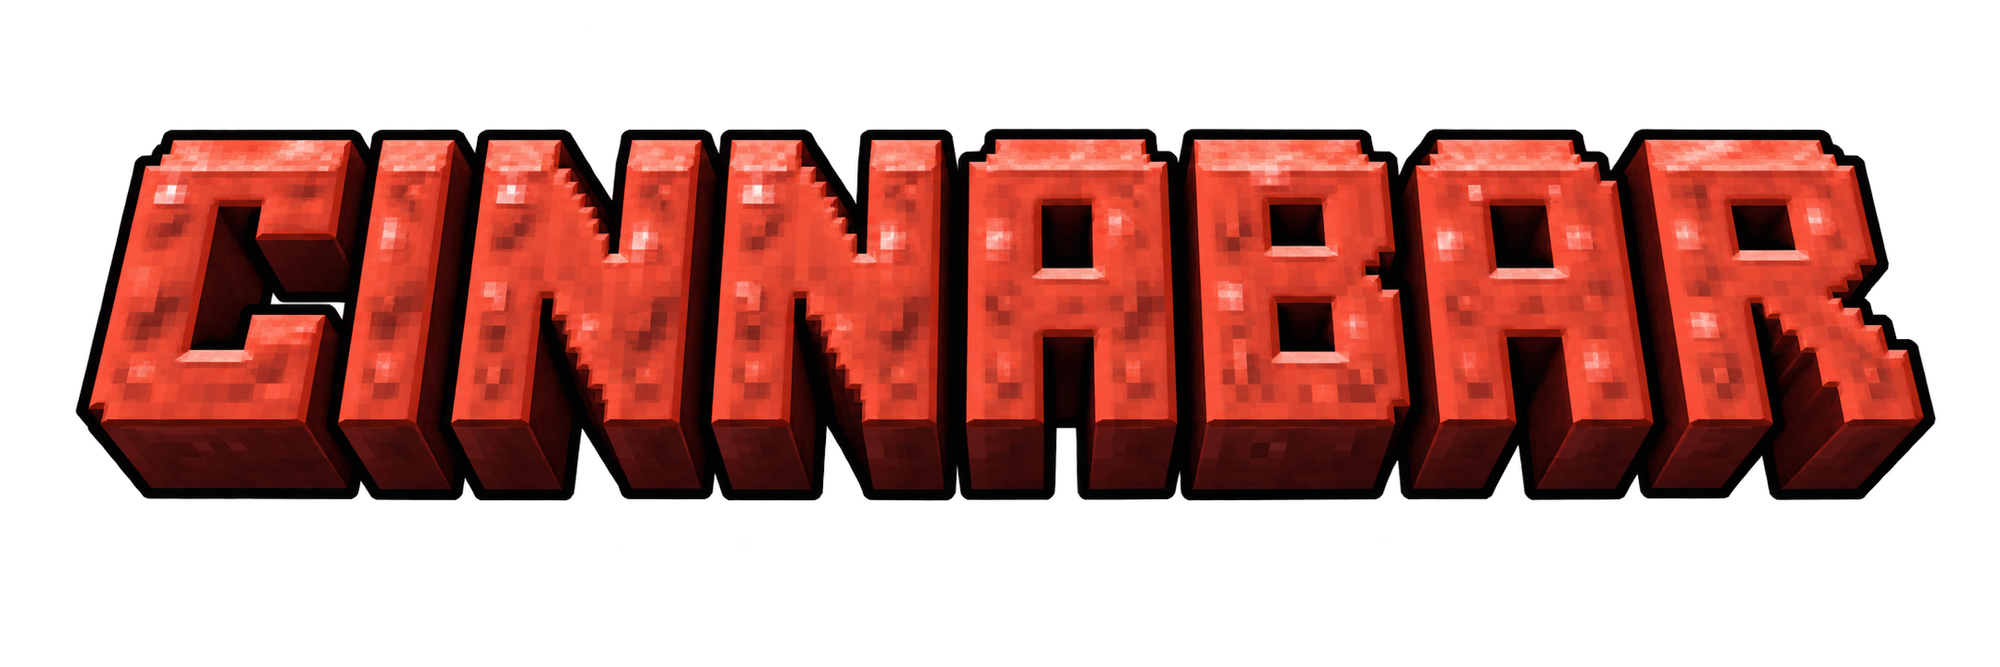
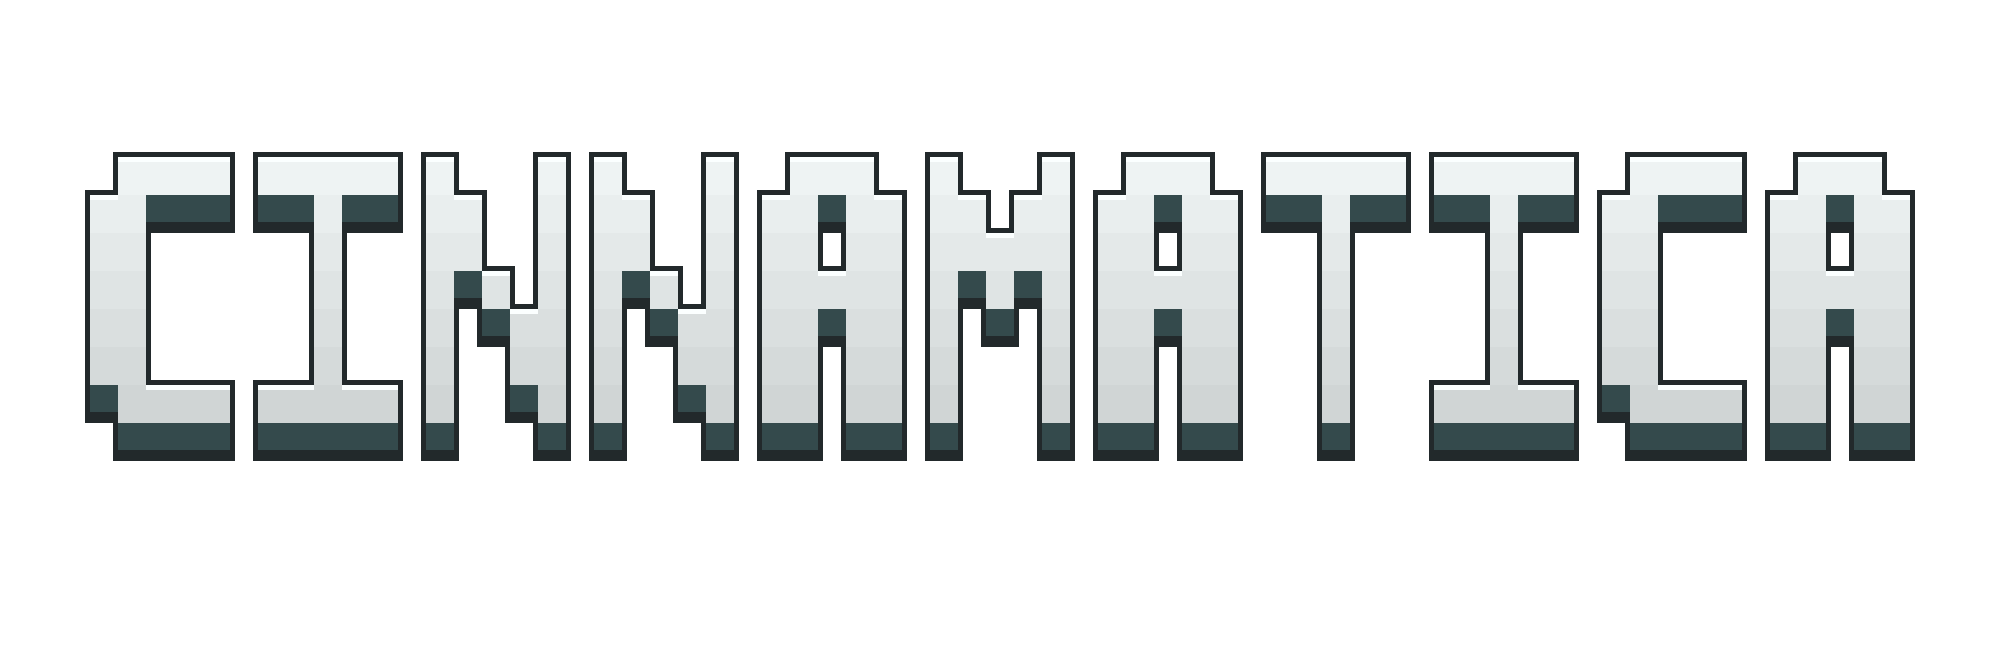
Cinnamatica 0.3.14: rebrand the launcher, mod, and distributions [skip ci]
Windows build 10ee738.

diff --git a/crates/launcher/src/menu/settings_options/bindings.rs b/crates/launcher/src/menu/settings_options/bindings.rs
@@ -113,45 +113,45 @@ bindings! {
     PlayerList => "key.playerList", Some(Action::PlayerList), Some(DeviceRow::Action(21)), None,
         None, false, Some("Player List");
     SchematicMenu => "key.schematic-menu", Some(Action::SchematicMenu), Some(DeviceRow::Action(22)), None,
-        None, false, Some("Schematica Menu");
+        None, false, Some("Cinnamatica Menu");
     SchematicConfig => "key.schematic-config", Some(Action::SchematicConfig), Some(DeviceRow::Action(23)), None,
-        None, false, Some("Schematica Settings");
+        None, false, Some("Cinnamatica Settings");
     SchematicPlacement => "key.schematic-placement", Some(Action::SchematicPlacement), Some(DeviceRow::Action(24)), None,
-        None, false, Some("Schematica Placement");
+        None, false, Some("Cinnamatica Placement");
     SchematicVerifier => "key.schematic-verifier", Some(Action::SchematicVerifier), Some(DeviceRow::Action(25)), None,
-        None, false, Some("Schematica Verifier");
+        None, false, Some("Cinnamatica Verifier");
     SchematicMaterials => "key.schematic-materials", Some(Action::SchematicMaterials), Some(DeviceRow::Action(26)), None,
-        None, false, Some("Schematica Materials");
+        None, false, Some("Cinnamatica Materials");
     SchematicRender => "key.schematic-render", Some(Action::SchematicRender), Some(DeviceRow::Action(27)), None,
-        None, false, Some("Schematica Rendering");
+        None, false, Some("Cinnamatica Rendering");
     SchematicGhosts => "key.schematic-ghosts", Some(Action::SchematicGhosts), Some(DeviceRow::Action(28)), None,
-        None, false, Some("Schematica Ghost Blocks");
+        None, false, Some("Cinnamatica Ghost Blocks");
     SchematicNextMode => "key.schematic-next-mode", Some(Action::SchematicNextMode), Some(DeviceRow::Action(29)), None,
-        None, false, Some("Schematica Next Layer Mode");
+        None, false, Some("Cinnamatica Next Layer Mode");
     SchematicPreviousMode => "key.schematic-previous-mode", Some(Action::SchematicPreviousMode), Some(DeviceRow::Action(30)), None,
-        None, false, Some("Schematica Previous Layer Mode");
+        None, false, Some("Cinnamatica Previous Layer Mode");
     SchematicPlacementConfig => "key.schematic-placement-config", Some(Action::SchematicPlacementConfig), Some(DeviceRow::Action(31)), None,
-        None, false, Some("Schematica Placement Settings");
+        None, false, Some("Cinnamatica Placement Settings");
     SchematicNextLayer => "key.schematic-next-layer", Some(Action::SchematicNextLayer), Some(DeviceRow::Action(32)), None,
-        None, false, Some("Schematica Next Layer");
+        None, false, Some("Cinnamatica Next Layer");
     SchematicPreviousLayer => "key.schematic-previous-layer", Some(Action::SchematicPreviousLayer), Some(DeviceRow::Action(33)), None,
-        None, false, Some("Schematica Previous Layer");
+        None, false, Some("Cinnamatica Previous Layer");
     SchematicForward => "key.schematic-forward", Some(Action::SchematicForward), Some(DeviceRow::Action(34)), None,
-        None, true, Some("Schematica Move Build Forward");
+        None, true, Some("Cinnamatica Move Build Forward");
     SchematicLeft => "key.schematic-left", Some(Action::SchematicLeft), Some(DeviceRow::Action(35)), None,
-        None, true, Some("Schematica Move Build Left");
+        None, true, Some("Cinnamatica Move Build Left");
     SchematicRight => "key.schematic-right", Some(Action::SchematicRight), Some(DeviceRow::Action(36)), None,
-        None, true, Some("Schematica Move Build Right");
+        None, true, Some("Cinnamatica Move Build Right");
     SchematicBack => "key.schematic-back", Some(Action::SchematicBack), Some(DeviceRow::Action(37)), None,
-        None, true, Some("Schematica Move Build Back");
+        None, true, Some("Cinnamatica Move Build Back");
     SchematicDown => "key.schematic-down", Some(Action::SchematicDown), Some(DeviceRow::Action(38)), None,
-        None, true, Some("Schematica Move Build Down");
+        None, true, Some("Cinnamatica Move Build Down");
     SchematicUp => "key.schematic-up", Some(Action::SchematicUp), Some(DeviceRow::Action(39)), None,
-        None, true, Some("Schematica Move Build Up");
+        None, true, Some("Cinnamatica Move Build Up");
     SchematicRotateLeft => "key.schematic-rotate-left", Some(Action::SchematicRotateLeft), Some(DeviceRow::Action(40)), None,
-        None, true, Some("Schematica Rotate Build Left");
+        None, true, Some("Cinnamatica Rotate Build Left");
     SchematicRotateRight => "key.schematic-rotate-right", Some(Action::SchematicRotateRight), Some(DeviceRow::Action(41)), None,
-        None, true, Some("Schematica Rotate Build Right");
+        None, true, Some("Cinnamatica Rotate Build Right");
     Inventory => "key.inventory", None, Some(DeviceRow::Extra(0, Some(PhysicalControl::KeyboardUsage(0x08)))), Some(DeviceRow::Extra(0, Some(PhysicalControl::GamepadButton(2)))),
         None, false, None;
     Chat => "key.chat", None, Some(DeviceRow::Extra(1, Some(PhysicalControl::KeyboardUsage(0x17)))), Some(DeviceRow::Extra(1, Some(PhysicalControl::GamepadButton(14)))),

diff --git a/builder/schematica/guest/src/lib.rs b/builder/schematica/guest/src/lib.rs
@@ -156,7 +156,7 @@ impl Guest for Schematica {
                 }
             });
         }
-        RUNTIME.with(|runtime| label(&runtime.borrow().2.menu_hint("Schematica")));
+        RUNTIME.with(|runtime| label(&runtime.borrow().2.menu_hint("Cinnamatica")));
     }
 
     fn frame() {
@@ -280,7 +280,7 @@ impl Guest for Schematica {
                     );
                     viewer.active_entry = *active_entry;
                     *runtime = Runtime::Ready(viewer);
-                    label(&options.menu_hint("Schematica"));
+                    label(&options.menu_hint("Cinnamatica"));
                 }
                 Runtime::Invalid => {}
                 Runtime::Start => unreachable!(),
@@ -298,7 +298,7 @@ fn library_names(catalog: &[&[u8]]) -> Vec<String> {
 
 fn invalidate(runtime: &mut Runtime) {
     *runtime = Runtime::Invalid;
-    label("Schematica | Build the component with a valid embedded blueprint.");
+    label("Cinnamatica | Build the component with a valid embedded blueprint.");
 }
 
 export!(Schematica);
@@ -410,7 +410,7 @@ impl Viewer {
 
     fn frame(&mut self) {
         let Ok(world) = gameplay::read_frame() else {
-            label("Schematica | Grant terrain access in Settings > Mods.");
+            label("Cinnamatica | Grant terrain access in Settings > Mods.");
             return;
         };
         let active_world = world.is_some();
@@ -442,7 +442,7 @@ impl Viewer {
         }
 
         let Ok(keys) = input::read_controls() else {
-            label("Schematica | Grant controls access in Settings > Mods.");
+            label("Cinnamatica | Grant controls access in Settings > Mods.");
             return;
         };
         if !keys.focused {
@@ -545,7 +545,7 @@ impl Viewer {
         }
         let caps = drawing::capabilities();
         if !caps.contains(drawing::Permissions::WORLD_DRAW) {
-            label("Schematica | Grant world_draw in Settings > Mods.");
+            label("Cinnamatica | Grant world_draw in Settings > Mods.");
             return;
         }
 
@@ -561,8 +561,8 @@ impl Viewer {
         }
         if self.options.assist && alt && keys.keys_pressed.iter().any(|key| key == "KeyU") {
             let message = self.aimed_block().map_or_else(
-                || "Schematica | Aim at a planned block".into(),
-                |(block, pos)| format!("Schematica | {} at {pos:?}", block.name),
+                || "Cinnamatica | Aim at a planned block".into(),
+                |(block, pos)| format!("Cinnamatica | {} at {pos:?}", block.name),
             );
             label(&message);
             return;
@@ -680,7 +680,7 @@ impl Viewer {
             }
         }
         if self.options.textured && !textured && self.placement.is_some() {
-            self.show_label("Schematica | Textures need render_material");
+            self.show_label("Cinnamatica | Textures need render_material");
         } else {
             self.publish_label(placement_cell);
         }

diff --git a/builder/schematica/builder/src/main.rs b/builder/schematica/builder/src/main.rs
@@ -39,7 +39,7 @@ fn run() -> Result<()> {
                 .to_path_buf();
             let package = launch::Package::portable(&root);
             if package.client.is_file()
-                || env::current_exe()?.file_stem() == Some(std::ffi::OsStr::new("Cinnabar Builder"))
+                || env::current_exe()?.file_stem() == Some(std::ffi::OsStr::new("Cinnamatica"))
             {
                 launch::start(&package, &root.join("profile"))?;
             } else {
@@ -51,7 +51,7 @@ fn run() -> Result<()> {
             let checkout = Path::new(checkout);
             let package = launch::Package::checkout(checkout, &profile.to_string_lossy());
             let status = launch::start(&package, &checkout.join(".local/builder-user"))?.wait()?;
-            ensure!(status.success(), "Cinnabar Builder exited with {status}.");
+            ensure!(status.success(), "Cinnamatica exited with {status}.");
             Ok(())
         }
         [cmd, mods] if cmd == "import-dialog" => launch::import_dialog(Path::new(mods)),
@@ -90,7 +90,10 @@ fn run() -> Result<()> {
         [cmd, input, output] if cmd == "pack" => {
             let core = fs::read(input)?;
             fs::write(output, component(&core)?)?;
-            println!("Wrote Cinnabar component {}", Path::new(output).display());
+            println!(
+                "Wrote Cinnamatica component {}",
+                Path::new(output).display()
+            );
             Ok(())
         }
         [cmd, template, input, output] if cmd == "pack-blueprint" => {
@@ -258,8 +261,8 @@ mod tests {
 fn component(core: &[u8]) -> Result<Vec<u8>> {
     let build_version = guest_version(core)?.unwrap_or("legacy");
     let name = match guest_revision(core)? {
-        Some(revision) => format!("Schematica Builder v{build_version} [{}]", &revision[..7]),
-        None => "Schematica Builder [unstamped]".to_owned(),
+        Some(revision) => format!("Cinnamatica v{build_version} [{}]", &revision[..7]),
+        None => "Cinnamatica [unstamped]".to_owned(),
     };
     let mut component = wit_component::ComponentEncoder::default()
         .module(core)?

diff --git a/builder/schematica/guest/src/menu.rs b/builder/schematica/guest/src/menu.rs
@@ -26,7 +26,7 @@ pub fn prepare(viewer: &Viewer) -> bool {
     let content = content(viewer.screen, viewer.options.fullscreen_ui);
     let result = panel::set_content(content).and_then(|()| update(viewer));
     if let Err(e) = result {
-        label(&format!("Schematica panel: {e}"));
+        label(&format!("Cinnamatica panel: {e}"));
         return false;
     }
     true
@@ -34,7 +34,7 @@ pub fn prepare(viewer: &Viewer) -> bool {
 
 pub fn request_open() {
     if let Err(e) = panel::open() {
-        label(&format!("Schematica panel: {e}"));
+        label(&format!("Cinnamatica panel: {e}"));
     }
 }
 
@@ -53,7 +53,7 @@ fn content(screen: Screen, fullscreen: bool) -> &'static str {
 }
 pub fn refresh(viewer: &Viewer) {
     if let Err(e) = update(viewer) {
-        label(&format!("Schematica panel: {e}"));
+        label(&format!("Cinnamatica panel: {e}"));
     }
 }
 
@@ -377,7 +377,7 @@ mod tests {
             let mut panel: Value = serde_json::from_str(content(Screen::Main, true)).unwrap();
             let mut bindings = Map::new();
             crate::dashboard::bindings(&crate::tests::reference_viewer(), &mut bindings);
-            bindings.insert("#build".into(), json!("Builder preview"));
+            bindings.insert("#build".into(), json!("Cinnamatica preview"));
             panel["surface"]["bindings"] = json!(bindings);
             std::fs::write(path, panel.to_string()).unwrap();
             let path =

diff --git a/builder/schematica/builder/src/launch.rs b/builder/schematica/builder/src/launch.rs
@@ -209,7 +209,7 @@ impl Package {
             working_dir: package.join("runtime"),
             template: package.join("schematica-guest-template.bin"),
             revision: package.join("builder-commit.txt"),
-            missing: "Keep the Cinnabar Builder launcher with the App folder from the same download.",
+            missing: "Keep the Cinnamatica launcher with the App folder from the same download.",
         }
     }
 
@@ -264,7 +264,7 @@ pub fn start(package: &Package, default_profile: &Path) -> Result<std::process::
         .env("SCHEMATICA_GUEST_TEMPLATE", &package.template)
         .env("CINNABAR_UPDATE_CHECK", "0")
         .spawn()
-        .context("Start Cinnabar Builder")
+        .context("Start Cinnamatica")
 }
 
 /// Preserve the enabled state and normal gameplay grants while retiring unused capabilities.

diff --git a/crates/launcher-host/src/mod_library/update.rs b/crates/launcher-host/src/mod_library/update.rs
@@ -145,7 +145,7 @@ impl PendingReload {
         }
         match library.active.iter().find(|active| active.id == self.id).map(|active| &active.status) {
             Some(Status::Starting) if now < self.deadline => None,
-            Some(Status::Starting) => Some(Err("The update was installed, but reload has not finished. Use Reload or restart Cinnabar.".into())),
+            Some(Status::Starting) => Some(Err("The update was installed, but reload has not finished. Use Reload or restart Cinnamatica.".into())),
             Some(Status::Failed(error) | Status::ReloadFailed(error)) => Some(Err(format!("The update was installed, but reload failed: {error}"))),
             Some(Status::Running | Status::NextJoin) | None => Some(Ok(self.message.clone())),
         }

diff --git a/crates/bootstrap-ui/src/window.rs b/crates/bootstrap-ui/src/window.rs
@@ -31,11 +31,11 @@ fn titled_attributes(title: Option<&str>, size: LogicalSize<f64>) -> WindowAttri
 /// Decodes the shared original icon for a native window.
 pub fn icon() -> Icon {
     let image = image::load_from_memory(ICON_BYTES)
-        .expect("bundled Cinnabar window icon must decode")
+        .expect("bundled Cinnamatica window icon must decode")
         .into_rgba8();
     let (width, height) = image.dimensions();
     Icon::from_rgba(image.into_raw(), width, height)
-        .expect("bundled Cinnabar window icon must have valid RGBA dimensions")
+        .expect("bundled Cinnamatica window icon must have valid RGBA dimensions")
 }
 
 #[cfg(test)]

diff --git a/crates/launcher-host/src/mod_library/schematics.rs b/crates/launcher-host/src/mod_library/schematics.rs
@@ -5,7 +5,7 @@ use std::{path::Path, process::Command};
 /// Opens the converter's native picker and waits for its atomic library publication.
 pub(super) fn import(mods: &Path) -> Result<bool, String> {
     let helper = std::env::var_os("CINNABAR_SCHEMATICA_IMPORTER")
-        .ok_or("Start Cinnabar Builder from its launcher or start script to import schematics.")?;
+        .ok_or("Start Cinnamatica from its launcher or start script to import schematics.")?;
     let mut command = Command::new(helper);
     command.arg("import-dialog").arg(mods);
     #[cfg(windows)]

diff --git a/crates/launcher-host/src/marketplace/worker.rs b/crates/launcher-host/src/marketplace/worker.rs
@@ -392,7 +392,7 @@ impl Worker<'_> {
         }
         let Some(keys) = self.keys else {
             if !library.mods.is_empty() {
-                notify("Marketplace downloads are not enabled in this build. Update Cinnabar or import a local mod.".into());
+                notify("Marketplace downloads are not enabled in this build. Update Cinnamatica or import a local mod.".into());
             }
             return;
         };

diff --git a/app/src/args.rs b/app/src/args.rs
@@ -8,11 +8,11 @@ pub const DEFAULT_GUI_SCALE: u8 = 2;
 
 pub const HELP: &str = concat!(
     "\
-cinnabar — ",
+",
     launcher::product_name!(),
     ", a Minecraft: Bedrock Edition client
 
-Usage: cinnabar [OPTIONS] [PACK.mcpack|PACK.mcaddon|PACK.zip]...
+Usage: Cinnamatica [OPTIONS] [PACK.mcpack|PACK.mcaddon|PACK.zip]...
 
 Options:
   --address <HOST:PORT>       Directly launch the Go core and join a server

diff --git a/crates/launcher-host/src/catalog.rs b/crates/launcher-host/src/catalog.rs
@@ -50,7 +50,7 @@ impl Catalog {
                 self.child = Some(child);
                 Ok(())
             }
-            Err(_) => Err("Reopen Cinnabar to retry the account catalog.".to_owned()),
+            Err(_) => Err("Reopen Cinnamatica to retry the account catalog.".to_owned()),
         }
     }
     /// Reads one published catalog or helper failure without blocking the frame.

diff --git a/builder/schematica/guest/src/actions.rs b/builder/schematica/guest/src/actions.rs
@@ -132,7 +132,7 @@ impl Viewer {
                 if let Some(index) = self.selected {
                     self.request = Some(index);
                     let _ = panel::close();
-                    label("Schematica | Loading selected blueprint");
+                    label("Cinnamatica | Loading selected blueprint");
                 }
                 return;
             }
